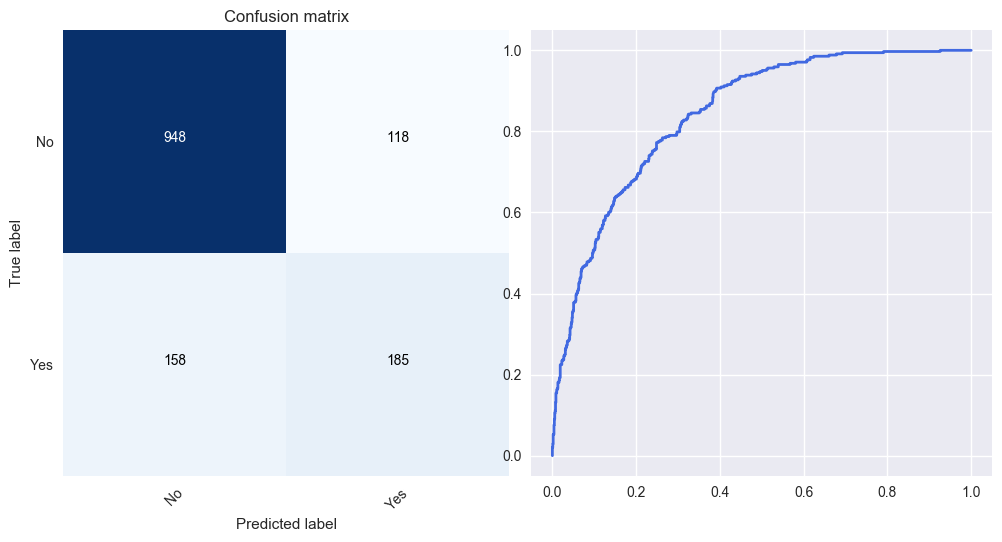
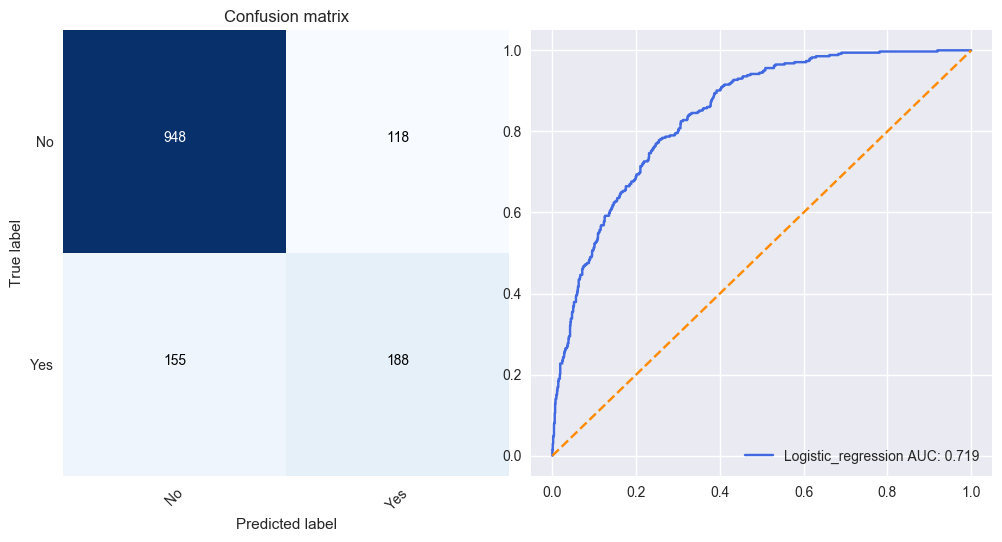
multi model script

diff --git a/Customer Churn prediction/model.py b/Customer Churn prediction/model.py
@@ -5,12 +5,6 @@ chdir(wd)
 
 import numpy as np 
 import pandas as pd 
-import matplotlib.style as style
-import seaborn as sns
-
-
-# import gc
-# import warnings
 
 # Modelling imports from Sklearn
 from sklearn.preprocessing import StandardScaler
@@ -19,47 +13,15 @@ from sklearn.linear_model import LogisticRegression
 from sklearn.metrics import confusion_matrix, accuracy_score, classification_report, roc_auc_score, roc_curve
 from cm_plot import plot_cm
 
-
+from data_prep import prepare_data
 # Visualization
+import matplotlib.style as style
 import matplotlib.pyplot as plt
-import seaborn as sns
 style.use('seaborn')
 
 # ------------------------------------------------------------------------
-df = pd.read_csv('data/WA_Fn-UseC_-Telco-Customer-Churn.csv')
+df_final = prepare_data()
 
-# data preparation
-
-# Customer id and Total charges is delt with separately.
-df.drop(['customerID'], axis = 1, inplace = True)
-df['TotalCharges'] = df['TotalCharges'].replace(" ", 0).astype('float32')
-
-
-# df.dtypes reveals that all the fetures are set as object this needs to be corrected.
-# get all categorical fetures from the data and comvert them into binary
-# numerical cols are all the others. 
-
-cat_cols = [c for c in df.columns if df[c].dtype == 'object' or c == 'SeniorCitizen']
-num_cols = [x for x in df.columns if x not in cat_cols]
-
-# categorize for uniques > 2 and others do a one hot encoding
-# make a categorial df for this purpose. This will be joined with numerical df
-df_cat = df[cat_cols]
-for col in cat_cols:
-    if df_cat[col].nunique() == 2:
-        df_cat[col], _ = pd.factorize(df_cat[col])
-    else:
-        df_cat = pd.get_dummies(df_cat, columns= [col])
-
-
-# Normalize the dataframe which contains numerical cols 
-df_std = pd.DataFrame(StandardScaler().fit_transform(df[num_cols].astype('float64')))
-
-# Join 
-df_final = pd.concat([df_std, df_cat], axis=1)
-print('Final processed data dimensions:', df_final.shape)
-
-# ------------------------------------------------------------------------
 # Train Test Split and set targets
 train, test = train_test_split(df_final, test_size = .2, random_state = 10)
 
@@ -72,9 +34,17 @@ test_x = test[feats]
 test_y = np.ravel(test[target])
 # ------------------------------------------------------------------------
 # Train model and evaluate
-clf = LogisticRegression().fit(train_x, train_y)
-preds = clf.predict(test_x)
-probs = clf.predict_proba(test_x)
+clf = LogisticRegression(solver = 'liblinear')
+param_grid = {'C':  np.logspace(-4, 4, 100, base=10) }
+metrics = ['roc_auc', 'accuracy']
+
+gs = GridSearchCV(clf, param_grid = param_grid, cv = 5, scoring = metrics ,verbose=1, refit = 'roc_auc')
+gs.fit(train_x, train_y)
+
+[(m, gs.cv_results_['mean_test_{}'.format(m)][gs.best_index_]) for m in metrics]
+
+preds = gs.predict(test_x)
+probs = gs.predict_proba(test_x)
 
 print ("Accuracy : ", accuracy_score(test_y, preds))
 print("Classification report : \n", classification_report(test_y, preds))
@@ -93,13 +63,17 @@ out_path = os.path.abspath('plots')
 
 
 fig = plt.figure(figsize=(10, 5)) 
-plt.subplot(1,2,1);
+plt.subplot(1,2,1)
 plot_cm(cm, classes=np.unique(df.Churn), mtd = 'Logistic')
-plt.subplot(1,2,2);
-plt.plot(fpr, tpr, linestyle = '-', color = "royalblue", linewidth = 2)
+plt.subplot(1,2,2)
+#plt.plot(fpr, tpr, linestyle = '-', color = "royalblue", linewidth = 2)
+plt.plot(fpr, tpr, color='royalblue', label='{} {}'.format('Logistic_regression AUC:',np.round(model_roc_auc,3)))
+plt.plot([0, 1], [0, 1], linestyle='--', color='darkorange')
+plt.legend(loc="lower right")
 
 fig.savefig(os.path.join(out_path, 'log_reg_cm_roc.png'), bbox_inches='tight', dpi=100)
 
 plt.show()
+
 
 

diff --git a/Customer Churn prediction/multi_model.py b/Customer Churn prediction/multi_model.py
@@ -1,0 +1,87 @@
+import os
+from os import chdir, getcwd
+wd=getcwd()
+chdir(wd)
+
+import numpy as np 
+from data_prep import prepare_data
+
+# Modelling imports from Sklearn
+from sklearn.model_selection import train_test_split, GridSearchCV
+from sklearn.linear_model import LogisticRegression
+from sklearn.metrics import confusion_matrix, accuracy_score, classification_report, roc_auc_score, roc_curve
+
+
+# ------------------------------------------------------------------------
+df_final = prepare_data()
+
+class Train():
+    def __init__(self, classifier, data, test_percent, metrics, random_seed = 50):
+        
+        # --- set parameters ----
+        self.estimator = classifier
+        self.seed = random_seed
+        self.metrics = metrics
+        # save hyperparameters here
+        self.hyperparametets = {}
+
+        # --- Data partition ----
+        self.train, self.test = train_test_split(data, test_size = test_percent, random_state = self.seed)
+        # set features and targets 
+        self.feats = [f for f in self.train.columns if f not in ['Churn']]
+
+
+    # Train with Cross validation and get the best parameters. 
+    def cross_val(self, fit_metric, n_val, grid_params):
+        gs = GridSearchCV(self.estimator, param_grid = grid_params, cv = n_val, scoring = self.metrics , verbose=1, refit = fit_metric)
+        gs.fit(self.train[self.feats], self.train.Churn)
+        self.hyperparameters = gs.best_params_
+
+        #result = [(m, gs.cv_results_['mean_test_{}'.format(m)][gs.best_index_]) for m in self.metrics] 
+
+        return print('Hyperparamater selected: ', self.hyperparameters)
+
+    # Train based on the best hyperparameter
+    def model_train(self):
+        params = {**self.hyperparameters}
+        #clf = self.estimator(**params).fit(self.train[self.feats], self.train.Churn)
+        clf = self.estimator(params)
+        clf.fit(self.train[self.feats], self.train.Churn)
+
+        # get predictions and probabilities of the positive class
+        preds = clf.predict(self.test[self.feats])
+        prob = clf.predict_proba(self.test.Churn)[:, 1]
+
+        # Get results based on the evaluation metric
+        roc_auc = list()
+        fpr_tpr = list()
+
+        for m in self.metrics:
+            if m == 'roc_auc':
+                res = roc_auc_score(self.test.Churn, prob)
+                fpr,tpr,thresholds = roc_curve(self.test.Churn, prob)
+
+                roc_auc.append(res)
+                fpr_tpr.append(fpr,tpr,thresholds)
+
+        
+
+        return preds, roc_auc, fpr_tpr
+
+
+
+param_grid = {'C':  np.logspace(-4, 4, 100, base=10) }
+metrics = ['roc_auc', 'accuracy']
+
+
+
+def get_results(data):
+    #model = Train(classifier = LogisticRegression(solver = 'liblinear'), data = df_final, test_percent = 0.2, metrics = metrics)
+    model = Train(classifier = LogisticRegression, data = df_final, test_percent = 0.2, metrics = metrics)
+
+    result = model.cross_val(fit_metric = 'roc_auc', n_val = 5, grid_params = param_grid)
+
+    model.model_train()
+
+
+get_results(data = df_final)

diff --git a/Customer Churn prediction/data_prep.py b/Customer Churn prediction/data_prep.py
@@ -1,0 +1,40 @@
+import numpy as np
+import pandas as pd
+from sklearn.preprocessing import StandardScaler
+
+
+def prepare_data():
+    df = pd.read_csv('data/WA_Fn-UseC_-Telco-Customer-Churn.csv')
+
+    # data preparation
+
+    # Customer id and Total charges is delt with separately.
+    df.drop(['customerID'], axis = 1, inplace = True)
+    df['TotalCharges'] = df['TotalCharges'].replace(" ", 0).astype('float32')
+
+
+    # df.dtypes reveals that all the fetures are set as object this needs to be corrected.
+    # get all categorical fetures from the data and comvert them into binary
+    # numerical cols are all the others. 
+
+    cat_cols = [c for c in df.columns if df[c].dtype == 'object' or c == 'SeniorCitizen']
+    num_cols = [x for x in df.columns if x not in cat_cols]
+
+    # categorize for uniques > 2 and others do a one hot encoding
+    # make a categorial df for this purpose. This will be joined with numerical df
+    df_cat = df[cat_cols]
+    for col in cat_cols:
+        if df_cat[col].nunique() == 2:
+            df_cat[col], _ = pd.factorize(df_cat[col])
+        else:
+            df_cat = pd.get_dummies(df_cat, columns= [col])
+
+
+    # Normalize the dataframe which contains numerical cols 
+    df_std = pd.DataFrame(StandardScaler().fit_transform(df[num_cols].astype('float64')))
+
+    # Join 
+    df_final = pd.concat([df_std, df_cat], axis=1)
+    print('Final processed data dimensions:', df_final.shape)
+
+    return df_final

diff --git a/Customer Churn prediction/cm_plot.py b/Customer Churn prediction/cm_plot.py
@@ -4,7 +4,6 @@ import itertools
 
 
 def plot_cm(cm, classes, mtd, title='Confusion matrix', cmap=plt.cm.Blues):
-    print("\nConfusion Matrix\n", cm)
     
     #fig1 = plt.figure(figsize=(5, 5))
 
